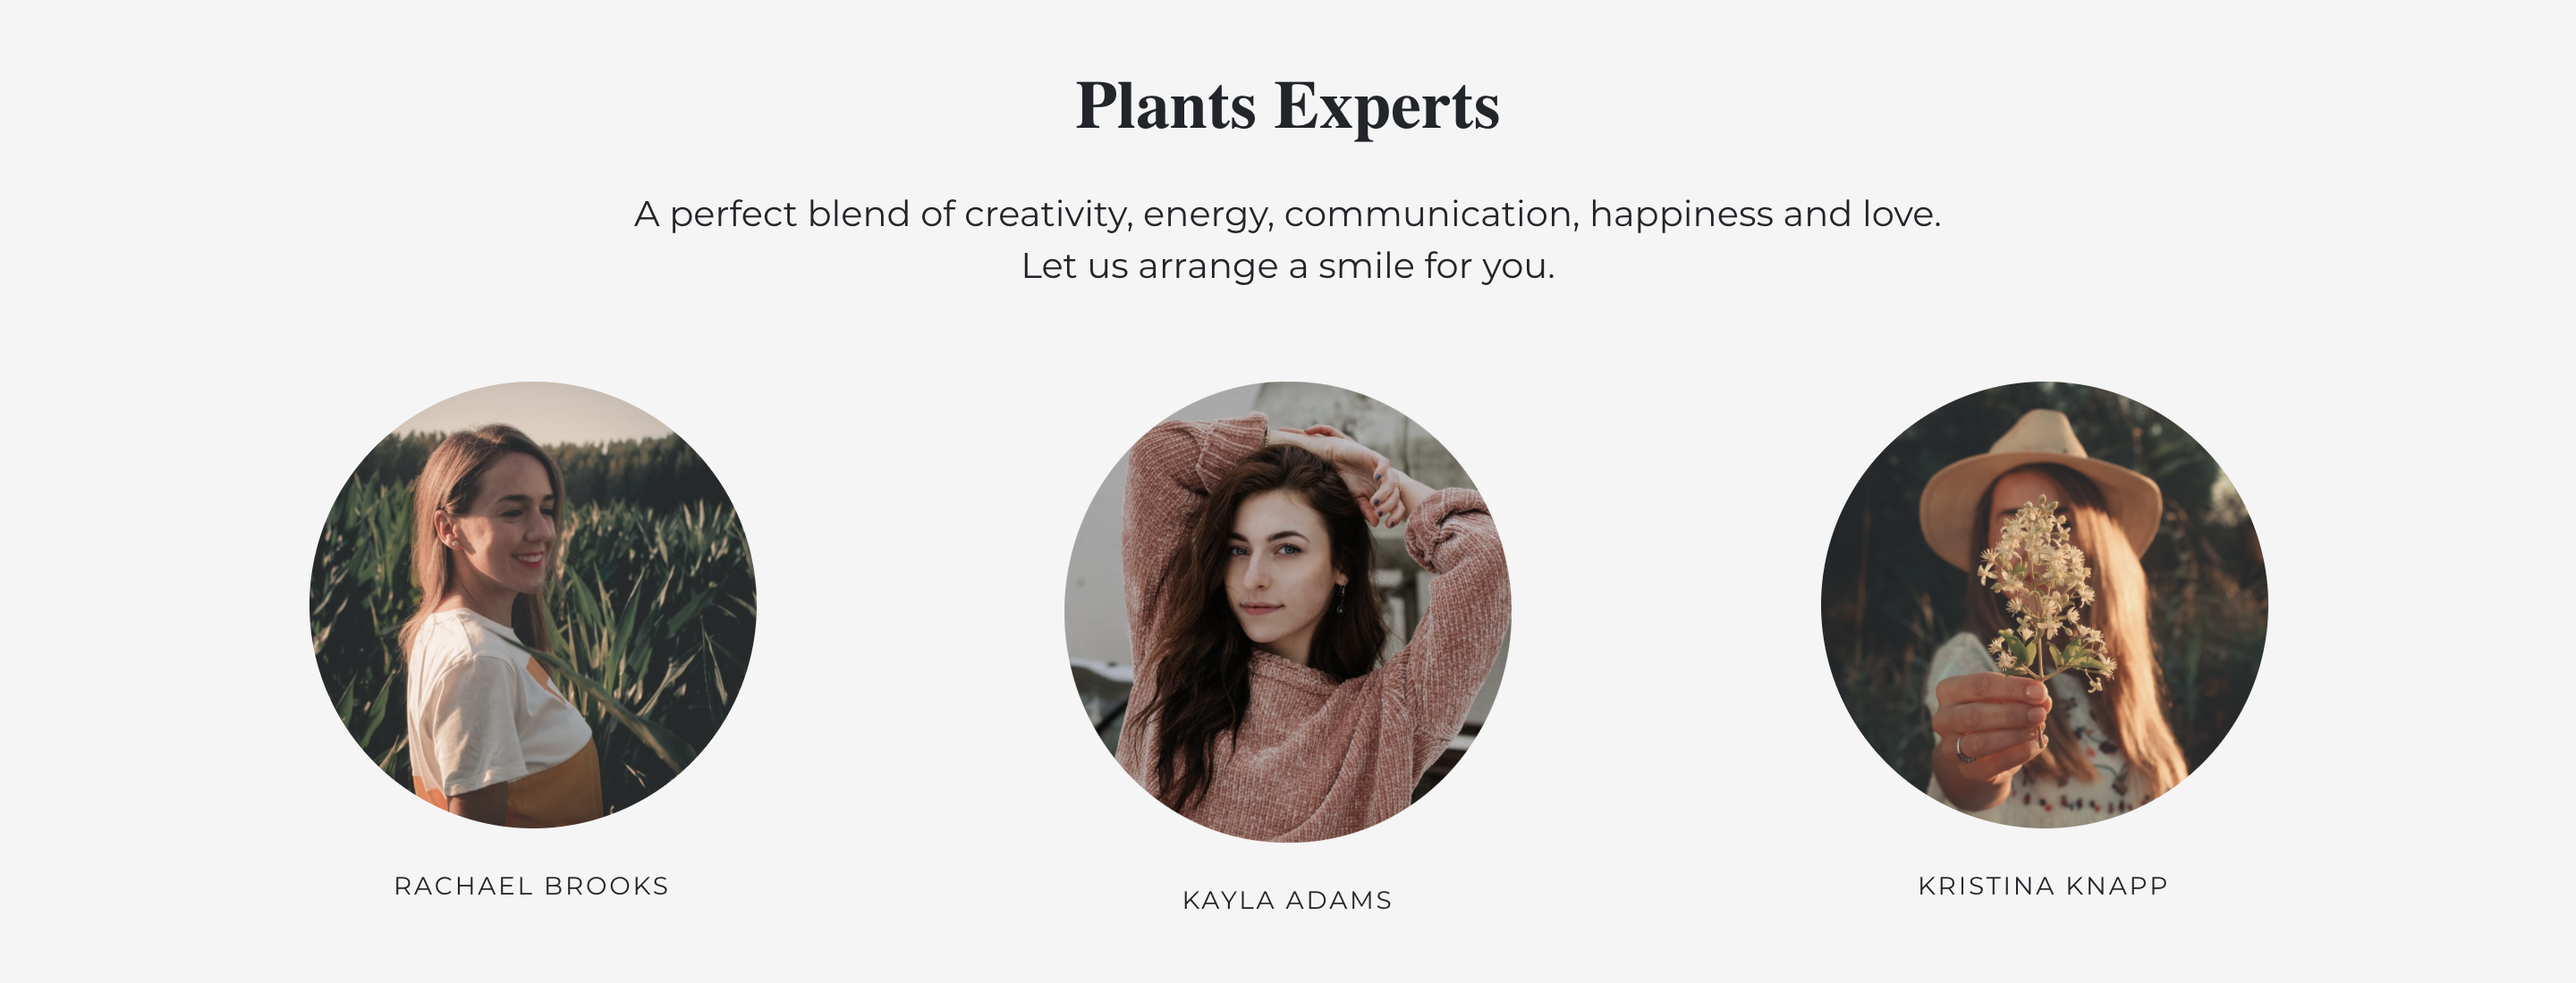
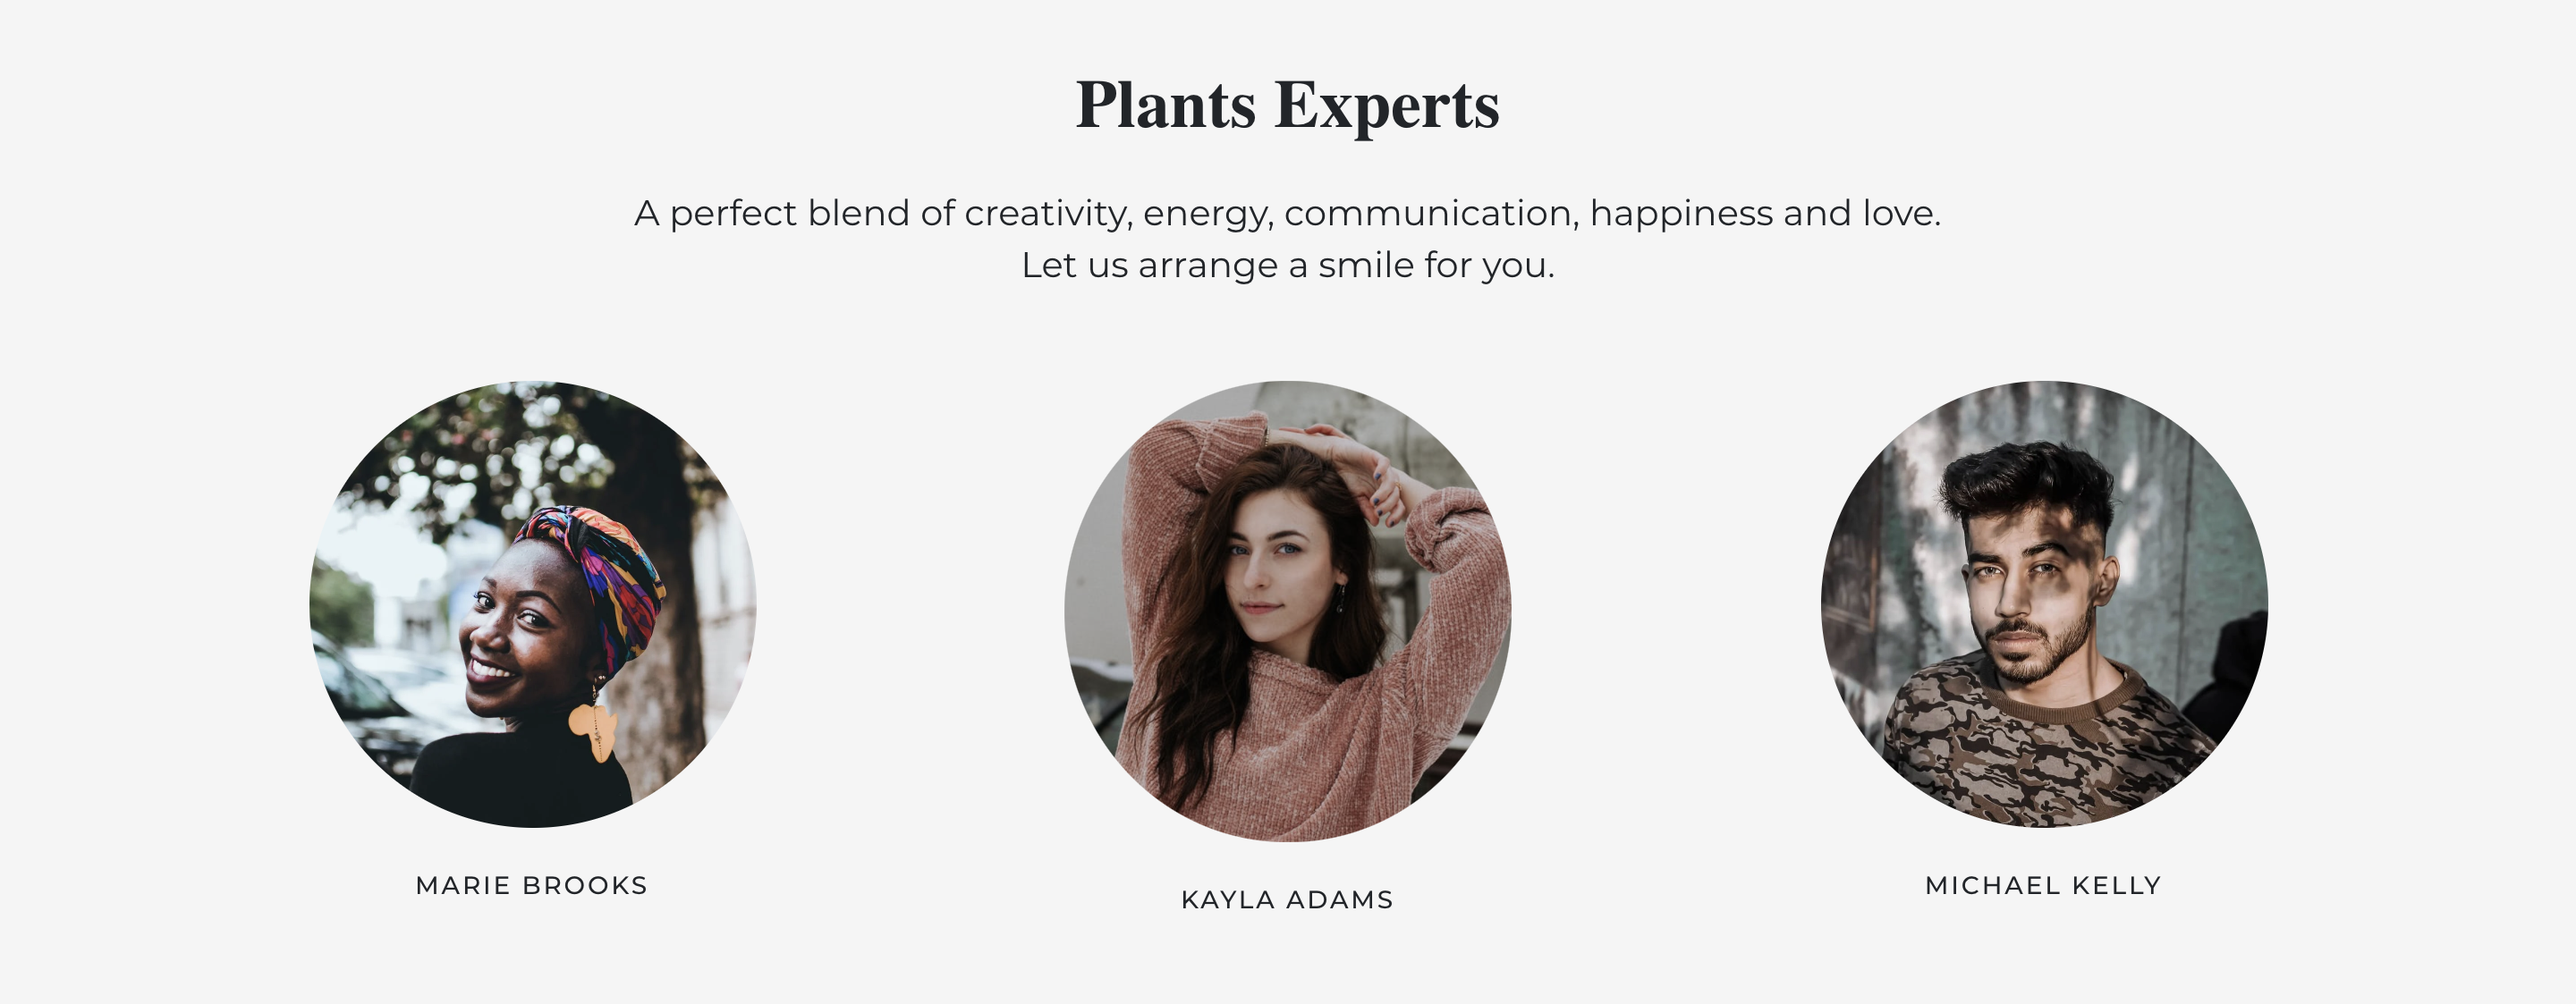
wip

diff --git a/src/components/Extras/useStyles.js b/src/components/Extras/useStyles.js
@@ -6,7 +6,7 @@ export const useStyles = makeStyles(theme => ({
     height: "100%",
     textAlign: "center",
     backgroundImage:
-      "url('https://github.com/tessa-woodard/urban-roots-revised/blob/main/src/assets/contact-us.jpeg?raw=true')",
+      "url('https://github.com/tessa-woodard/urban-roots/blob/main/src/images/contact-us.jpeg?raw=true')",
     backgroundAttachment: "fixed",
     backgroundPosition: "center",
     backgroundRepeat: "no-repeat",
@@ -21,7 +21,7 @@ export const useStyles = makeStyles(theme => ({
     height: "100%",
     textAlign: "center",
     backgroundImage:
-      "url('https://github.com/tessa-woodard/urban-roots-revised/blob/main/src/assets/background.jpeg?raw=true')",
+      "url('https://github.com/tessa-woodard/urban-roots/blob/main/src/images/background.jpeg?raw=true')",
     backgroundAttachment: "fixed",
     backgroundPosition: "center",
     backgroundRepeat: "no-repeat",
@@ -36,7 +36,7 @@ export const useStyles = makeStyles(theme => ({
     height: "100%",
     textAlign: "center",
     backgroundImage:
-      "url('https://github.com/tessa-woodard/urban-roots-revised/blob/main/src/assets/inspiration/inspiration.jpg?raw=true')",
+      "url('https://github.com/tessa-woodard/urban-roots/blob/main/src/images/inspiration.jpg?raw=true')",
     backgroundAttachment: "fixed",
     backgroundPosition: "center",
     backgroundRepeat: "no-repeat",
@@ -156,7 +156,7 @@ export const useStyles = makeStyles(theme => ({
   imgBlockContact: {
     width: "38%",
     backgroundImage:
-      'url("https://github.com/tessa-woodard/urban-roots-revised/blob/main/src/assets/contact-us2.jpeg?raw=true")',
+      'url("https://github.com/tessa-woodard/urban-roots/blob/main/src/images/contact-us2.jpeg?raw=true")',
     backgroundPosition: "center",
     backgroundRepeat: "no-repeat",
     backgroundSize: "cover",
@@ -169,7 +169,7 @@ export const useStyles = makeStyles(theme => ({
   imgBlockAbout: {
     width: "38%",
     backgroundImage:
-      'url("https://github.com/tessa-woodard/urban-roots-revised/blob/main/src/assets/about-us.jpeg?raw=true")',
+      'url("https://github.com/tessa-woodard/urban-roots/blob/main/src/images/about-us.jpeg?raw=true")',
     backgroundPosition: "center",
     backgroundRepeat: "no-repeat",
     backgroundSize: "cover",
@@ -182,7 +182,7 @@ export const useStyles = makeStyles(theme => ({
   imgBlockInspo: {
     width: "38%",
     backgroundImage:
-      'url("https://github.com/tessa-woodard/urban-roots-revised/blob/main/src/assets/inspiration/inspo-collage.jpg?raw=true")',
+      'url("https://github.com/tessa-woodard/urban-roots/blob/main/src/images/inspo/inspo-collage.jpg?raw=true")',
     backgroundPosition: "center",
     backgroundRepeat: "no-repeat",
     backgroundSize: "cover",
@@ -281,7 +281,7 @@ export const useStyles = makeStyles(theme => ({
   imgBlock1: {
     width: "38%",
     backgroundImage:
-      'url("https://github.com/tessa-woodard/urban-roots-revised/blob/main/src/assets/tips-collage1.jpeg?raw=true")',
+      'url("https://github.com/tessa-woodard/urban-roots/blob/main/src/images/tips-collage1.jpeg?raw=true")',
     backgroundPosition: "center",
     backgroundRepeat: "no-repeat",
     backgroundSize: "cover",
@@ -294,7 +294,7 @@ export const useStyles = makeStyles(theme => ({
   imgBlock2: {
     width: "55%",
     backgroundImage:
-      'url("https://github.com/tessa-woodard/urban-roots-revised/blob/main/src/assets/tips-collage2.jpeg?raw=true")',
+      'url("https://github.com/tessa-woodard/urban-roots/blob/main/src/images/tips-collage2.jpeg?raw=true")',
     backgroundPosition: "center",
     backgroundRepeat: "no-repeat",
     backgroundSize: "cover",
@@ -307,7 +307,7 @@ export const useStyles = makeStyles(theme => ({
   imgBlock3: {
     width: "38%",
     backgroundImage:
-      'url("https://github.com/tessa-woodard/urban-roots-revised/blob/main/src/assets/tips-collage3.jpeg?raw=true")',
+      'url("https://github.com/tessa-woodard/urban-roots/blob/main/src/images/tips-collage3.jpeg?raw=true")',
     backgroundPosition: "center",
     backgroundRepeat: "no-repeat",
     backgroundSize: "cover",
@@ -351,7 +351,7 @@ export const useStyles = makeStyles(theme => ({
   imgBlockShipping: {
     width: "48%",
     backgroundImage:
-      'url("https://github.com/tessa-woodard/urban-roots-revised/blob/main/src/assets/shipping.png?raw=true")',
+      'url("https://github.com/tessa-woodard/urban-roots/blob/main/src/images/shipping.png?raw=true")',
     backgroundPosition: "center",
     backgroundRepeat: "no-repeat",
     backgroundSize: "cover",

diff --git a/src/components/Extras/Inspiration.js b/src/components/Extras/Inspiration.js
@@ -62,7 +62,7 @@ const Inspiration = () => {
           <div>
             <img
               className={classes.inspoImg}
-              src="https://github.com/tessa-woodard/urban-roots-revised/blob/main/src/assets/inspiration/inspo-1.jpeg?raw=true"
+              src="https://github.com/tessa-woodard/urban-roots/blob/main/src/images/inspo/inspo-1.jpeg?raw=true"
               alt=""
               width="350px"
             />
@@ -70,7 +70,7 @@ const Inspiration = () => {
           <div>
             <img
               className={classes.inspoImg}
-              src="https://github.com/tessa-woodard/urban-roots-revised/blob/main/src/assets/inspiration/inspo-2.jpeg?raw=true"
+              src="https://github.com/tessa-woodard/urban-roots/blob/main/src/images/inspo/inspo-2.jpeg?raw=true"
               alt=""
               width="350px"
             />
@@ -78,33 +78,7 @@ const Inspiration = () => {
           <div>
             <img
               className={classes.inspoImg}
-              src="https://github.com/tessa-woodard/urban-roots-revised/blob/main/src/assets/inspiration/inspo-3.jpeg?raw=true"
-              alt=""
-              width="350px"
-            />
-          </div>
-        </div>
-        <div className={classes.inspo}>
-          <div>
-            <img
-              className={classes.inspoImg}
-              src="https://github.com/tessa-woodard/urban-roots-revised/blob/main/src/assets/inspiration/inspo-4.jpeg?raw=true"
-              alt=""
-              width="350px"
-            />
-          </div>
-          <div>
-            <img
-              className={classes.inspoImg}
-              src="https://github.com/tessa-woodard/urban-roots-revised/blob/main/src/assets/inspiration/inspo-5.jpeg?raw=true"
-              alt=""
-              width="350px"
-            />
-          </div>
-          <div>
-            <img
-              className={classes.inspoImg}
-              src="https://github.com/tessa-woodard/urban-roots-revised/blob/main/src/assets/inspiration/inspo-6.jpeg?raw=true"
+              src="https://github.com/tessa-woodard/urban-roots/blob/main/src/images/inspo/inspo-3.jpeg?raw=true"
               alt=""
               width="350px"
             />
@@ -114,7 +88,7 @@ const Inspiration = () => {
           <div>
             <img
               className={classes.inspoImg}
-              src="https://github.com/tessa-woodard/urban-roots-revised/blob/main/src/assets/inspiration/inspo-7.jpeg?raw=true"
+              src="https://github.com/tessa-woodard/urban-roots/blob/main/src/images/inspo/inspo-4.jpeg?raw=true"
               alt=""
               width="350px"
             />
@@ -122,7 +96,7 @@ const Inspiration = () => {
           <div>
             <img
               className={classes.inspoImg}
-              src="https://github.com/tessa-woodard/urban-roots-revised/blob/main/src/assets/inspiration/inspo-8.jpeg?raw=true"
+              src="https://github.com/tessa-woodard/urban-roots/blob/main/src/images/inspo/inspo-5.jpeg?raw=true"
               alt=""
               width="350px"
             />
@@ -130,7 +104,33 @@ const Inspiration = () => {
           <div>
             <img
               className={classes.inspoImg}
-              src="https://github.com/tessa-woodard/urban-roots-revised/blob/main/src/assets/inspiration/inspo-9.jpeg?raw=true"
+              src="https://github.com/tessa-woodard/urban-roots/blob/main/src/images/inspo/inspo-6.jpeg?raw=true"
+              alt=""
+              width="350px"
+            />
+          </div>
+        </div>
+        <div className={classes.inspo}>
+          <div>
+            <img
+              className={classes.inspoImg}
+              src="https://github.com/tessa-woodard/urban-roots/blob/main/src/images/inspo/inspo-7.jpeg?raw=true"
+              alt=""
+              width="350px"
+            />
+          </div>
+          <div>
+            <img
+              className={classes.inspoImg}
+              src="https://github.com/tessa-woodard/urban-roots/blob/main/src/images/inspo/inspo-8.jpeg?raw=true"
+              alt=""
+              width="350px"
+            />
+          </div>
+          <div>
+            <img
+              className={classes.inspoImg}
+              src="https://github.com/tessa-woodard/urban-roots/blob/main/src/images/inspo/inspo-9.jpeg?raw=true"
               alt=""
               width="350px"
             />

diff --git a/src/components/Homepage/Reviews/Reviews.js b/src/components/Homepage/Reviews/Reviews.js
@@ -4,7 +4,7 @@ import "./reviews.css"
 const Reviews = () => {
   return (
     <div className="rev-section">
-      <h1 className="review-title">What People are Saying</h1>
+      <h1 className="review-title">What People Are Saying</h1>
       <br />
       <hr
         style={{
@@ -20,7 +20,7 @@ const Reviews = () => {
               <div className="head-review">
                 <img
                   className="review-img"
-                  src="https://images.pexels.com/photos/5596203/pexels-photo-5596203.jpeg?auto=compress&cs=tinysrgb&dpr=2&w=500"
+                  src="https://github.com/tessa-woodard/urban-roots/blob/main/src/images/reviews1.jpeg?raw=true"
                   width="250px"
                   alt="user review"
                 />
@@ -32,7 +32,7 @@ const Reviews = () => {
               </div>
               <div className="name-review">
                 <hr />
-                <p className="review-flowers">Aubree</p>
+                <p className="review-flowers">AUBREE</p>
                 <p>Riverside, CA</p>
               </div>
             </div>
@@ -42,7 +42,7 @@ const Reviews = () => {
               <div className="head-review">
                 <img
                   className="review-img"
-                  src="https://images.pexels.com/photos/4398944/pexels-photo-4398944.jpeg?auto=compress&cs=tinysrgb&dpr=2&w=500"
+                  src="https://github.com/tessa-woodard/urban-roots/blob/main/src/images/reviews2.jpeg?raw=true"
                   width="250px"
                   alt="user review"
                 />
@@ -63,7 +63,7 @@ const Reviews = () => {
               <div className="head-review">
                 <img
                   className="review-img"
-                  src="https://raw.githubusercontent.com/tessa-woodard/urban-roots/main/src/images/reviews3.jpeg"
+                  src="https://github.com/tessa-woodard/urban-roots/blob/main/src/images/reviews3.jpeg?raw=true"
                   width="250px"
                   alt="user review"
                 />

diff --git a/src/components/Extras/About.js b/src/components/Extras/About.js
@@ -44,7 +44,7 @@ const AboutUs = () => {
           <div>
             <img
               className={classes.expertImg}
-              src="https://images.pexels.com/photos/1820575/pexels-photo-1820575.jpeg?auto=compress&cs=tinysrgb&dpr=2&w=500"
+              src="https://github.com/tessa-woodard/urban-roots/blob/main/src/images/employee1.jpeg?raw=true"
               alt=""
               width="250px"
             />
@@ -53,7 +53,7 @@ const AboutUs = () => {
           <div>
             <img
               className={classes.expertImg}
-              src="https://github.com/tessa-woodard/urban-roots-revised/blob/main/src/assets/women2.jpeg?raw=true"
+              src="https://github.com/tessa-woodard/urban-roots/blob/main/src/images/employee2.jpeg?raw=true"
               alt=""
               width="250px"
             />
@@ -62,7 +62,7 @@ const AboutUs = () => {
           <div>
             <img
               className={classes.expertImg}
-              src="https://images.pexels.com/photos/4052800/pexels-photo-4052800.jpeg?auto=compress&cs=tinysrgb&dpr=2&w=500"
+              src="https://github.com/tessa-woodard/urban-roots/blob/main/src/images/employee3.jpeg?raw=true"
               alt=""
               width="250px"
             />

diff --git a/src/components/Homepage/Reviews/reviews.css b/src/components/Homepage/Reviews/reviews.css
@@ -8,7 +8,7 @@
 }
 
 .review-title {
-  font-size: 4rem;
+  font-size: 3.5rem;
   justify-content: center;
   line-height: 0.5em;
   font-family: "Playfair Display", serif;
